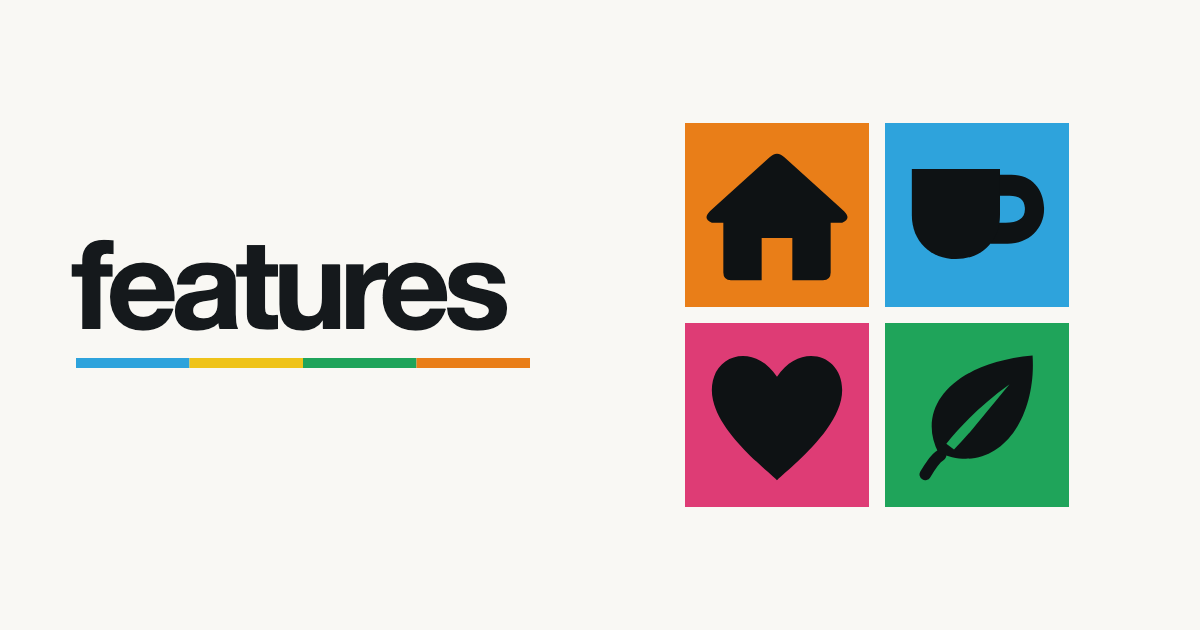
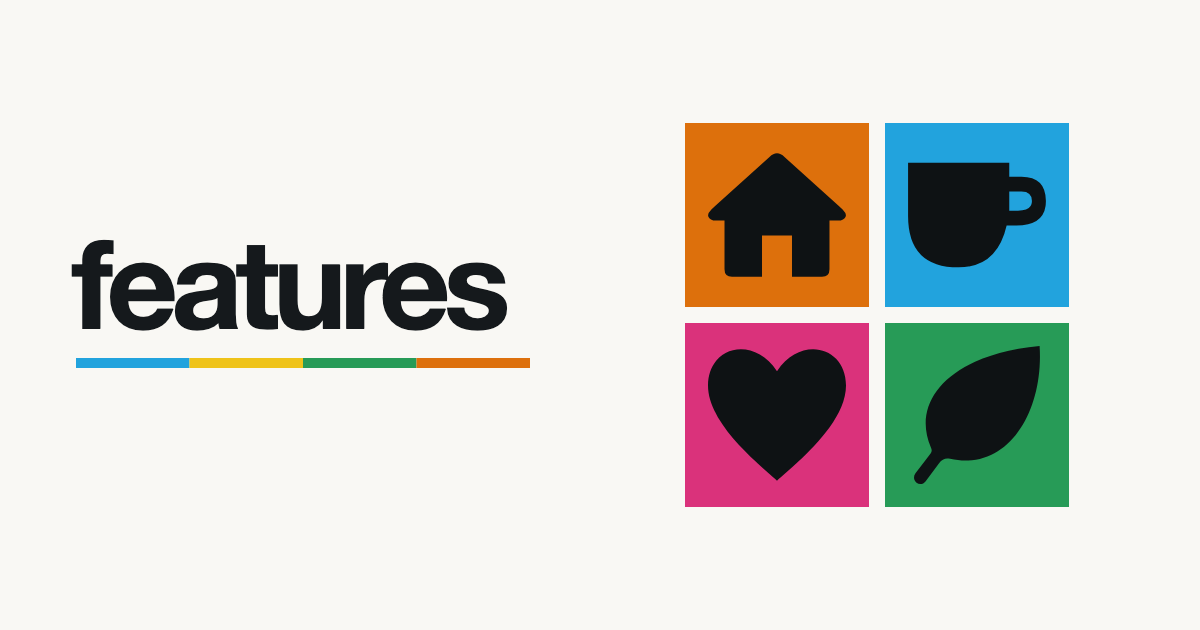
Republish features at features@368a5c2 — Share card and search words: current stamps, eight networks, a named site

diff --git a/public/features/index.html b/public/features/index.html
@@ -9,27 +9,29 @@
 <link rel="apple-touch-icon" href="apple-touch-icon.png?v=b7eafc54ec50">
 <meta name="apple-mobile-web-app-capable" content="yes">
 <meta name="apple-mobile-web-app-status-bar-style" content="default">
-<title>features</title>
-<meta name="description" content="Ten small networks to untangle each day, with shapes to discover along the way. Free to play.">
+<meta name="apple-mobile-web-app-title" content="features">
+<title>features · a daily puzzle</title>
+<meta name="description" content="Eight small networks to untangle each day, with shapes to discover along the way. Free to play.">
 <link rel="canonical" href="https://features.games/">
+<script type="application/ld+json">{"@context":"https://schema.org","@type":"WebSite","name":"features","alternateName":"features.games","url":"https://features.games/"}</script>
 <link rel="license terms-of-service" href="https://features.games/legal">
 <link rel="privacy-policy" href="https://features.games/legal#privacy">
 <meta name="author" content="Dan Atkinson">
 <meta name="copyright" content="© 2026 Dan Atkinson. All rights reserved.">
 <meta property="og:type" content="website">
 <meta property="og:site_name" content="features">
-<meta property="og:title" content="features">
-<meta property="og:description" content="Ten small networks to untangle each day, with shapes to discover along the way. Free to play.">
+<meta property="og:title" content="features · a daily puzzle">
+<meta property="og:description" content="Eight small networks to untangle each day, with shapes to discover along the way. Free to play.">
 <meta property="og:url" content="https://features.games/">
-<meta property="og:image" content="https://features.games/og.png?v=discoveries-20260908">
+<meta property="og:image" content="https://features.games/og.png?v=stamps-20261010">
 <meta property="og:image:width" content="1200">
 <meta property="og:image:height" content="630">
-<meta property="og:image:alt" content="Features wordmark beside colourful house, cup, heart and leaf stamps">
+<meta property="og:image:alt" content="The features wordmark beside house, cup, heart and leaf stamps">
 <meta name="twitter:card" content="summary_large_image">
-<meta name="twitter:title" content="features">
-<meta name="twitter:description" content="Ten small networks to untangle each day, with shapes to discover along the way. Free to play.">
-<meta name="twitter:image" content="https://features.games/og.png?v=discoveries-20260908">
-<meta http-equiv="Content-Security-Policy" content="default-src 'self'; script-src 'self' 'sha256-AD4saHQ4ipuQXpUUn5jZlDyPHoBlxJ59UF1rp8P5HbY=' 'sha256-WSXX3OocHxLlT3WzukpBl3YiWgSH01D014cKabHMywE=' 'sha256-67YrAKa5XvwKS1yJ7mF2nF9VrXh5QAe2FUCLdXIUSyg=' 'sha256-D8RGKteLrYYgdVAZgPF1HE/FIWH7OL8zLSIEEyrF5S8=' 'sha256-tFxkZVHKyVo6P3VEIhJDtJmecJWl9BT2Qz0qwjkxk2M=' https://js.stripe.com; worker-src blob:; style-src 'self' 'unsafe-inline'; img-src 'self' data:; font-src 'self'; connect-src 'self' https://api.stripe.com; frame-src https://js.stripe.com https://checkout.stripe.com https://hooks.stripe.com; base-uri 'none'; object-src 'none'; form-action 'self'">
+<meta name="twitter:title" content="features · a daily puzzle">
+<meta name="twitter:description" content="Eight small networks to untangle each day, with shapes to discover along the way. Free to play.">
+<meta name="twitter:image" content="https://features.games/og.png?v=stamps-20261010">
+<meta http-equiv="Content-Security-Policy" content="default-src 'self'; script-src 'self' 'sha256-uam/mFtG8QutSaskHxpAHFMZOU5KJ9qqce1WYx0Tx/o=' 'sha256-AD4saHQ4ipuQXpUUn5jZlDyPHoBlxJ59UF1rp8P5HbY=' 'sha256-WSXX3OocHxLlT3WzukpBl3YiWgSH01D014cKabHMywE=' 'sha256-67YrAKa5XvwKS1yJ7mF2nF9VrXh5QAe2FUCLdXIUSyg=' 'sha256-D8RGKteLrYYgdVAZgPF1HE/FIWH7OL8zLSIEEyrF5S8=' 'sha256-tFxkZVHKyVo6P3VEIhJDtJmecJWl9BT2Qz0qwjkxk2M=' https://js.stripe.com; worker-src blob:; style-src 'self' 'unsafe-inline'; img-src 'self' data:; font-src 'self'; connect-src 'self' https://api.stripe.com; frame-src https://js.stripe.com https://checkout.stripe.com https://hooks.stripe.com; base-uri 'none'; object-src 'none'; form-action 'self'">
 <link rel="icon" type="image/x-icon" sizes="16x16 32x32 48x48" href="favicon.ico?v=b7eafc54ec50">
 <link rel="icon" type="image/png" sizes="32x32" href="favicon-32.png?v=b7eafc54ec50">
 <link rel="icon" type="image/svg+xml" sizes="any" href="favicon.svg?v=b7eafc54ec50">
